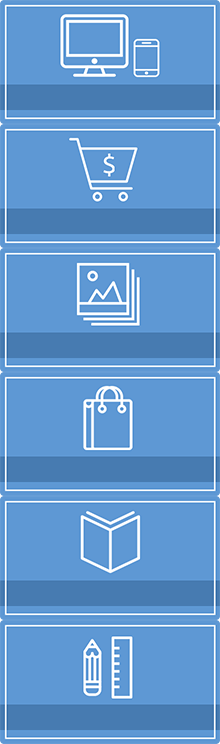
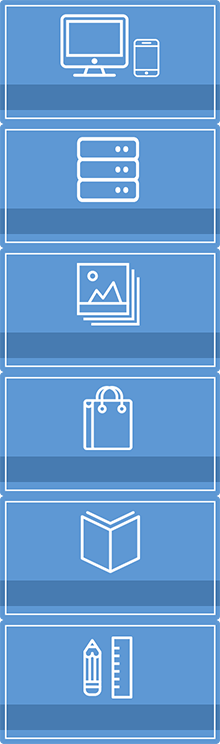
修改服務項目/電商平台為內部管理系統 #20191216

Changed region(s): [[0.3273, 0.1855, 0.6545, 0.2782]]

diff --git a/service.html b/service.html
@@ -115,7 +115,7 @@ height="0" width="0" style="display:none;visibility:hidden"></iframe></noscript>
                 <div id="list_service" class="wow fadeInUp">
                    <ul class="service_item">
                         <li class="service-01">企業形象網站</li>
-                        <li class="service-02">電子商務平台</li>
+                        <li class="service-02">內部管理系統</li>
                         <li class="service-03">活動EDM設計</li>
                     </ul>
                     <h4>線上/線下虛實整合設計服務</h4>
